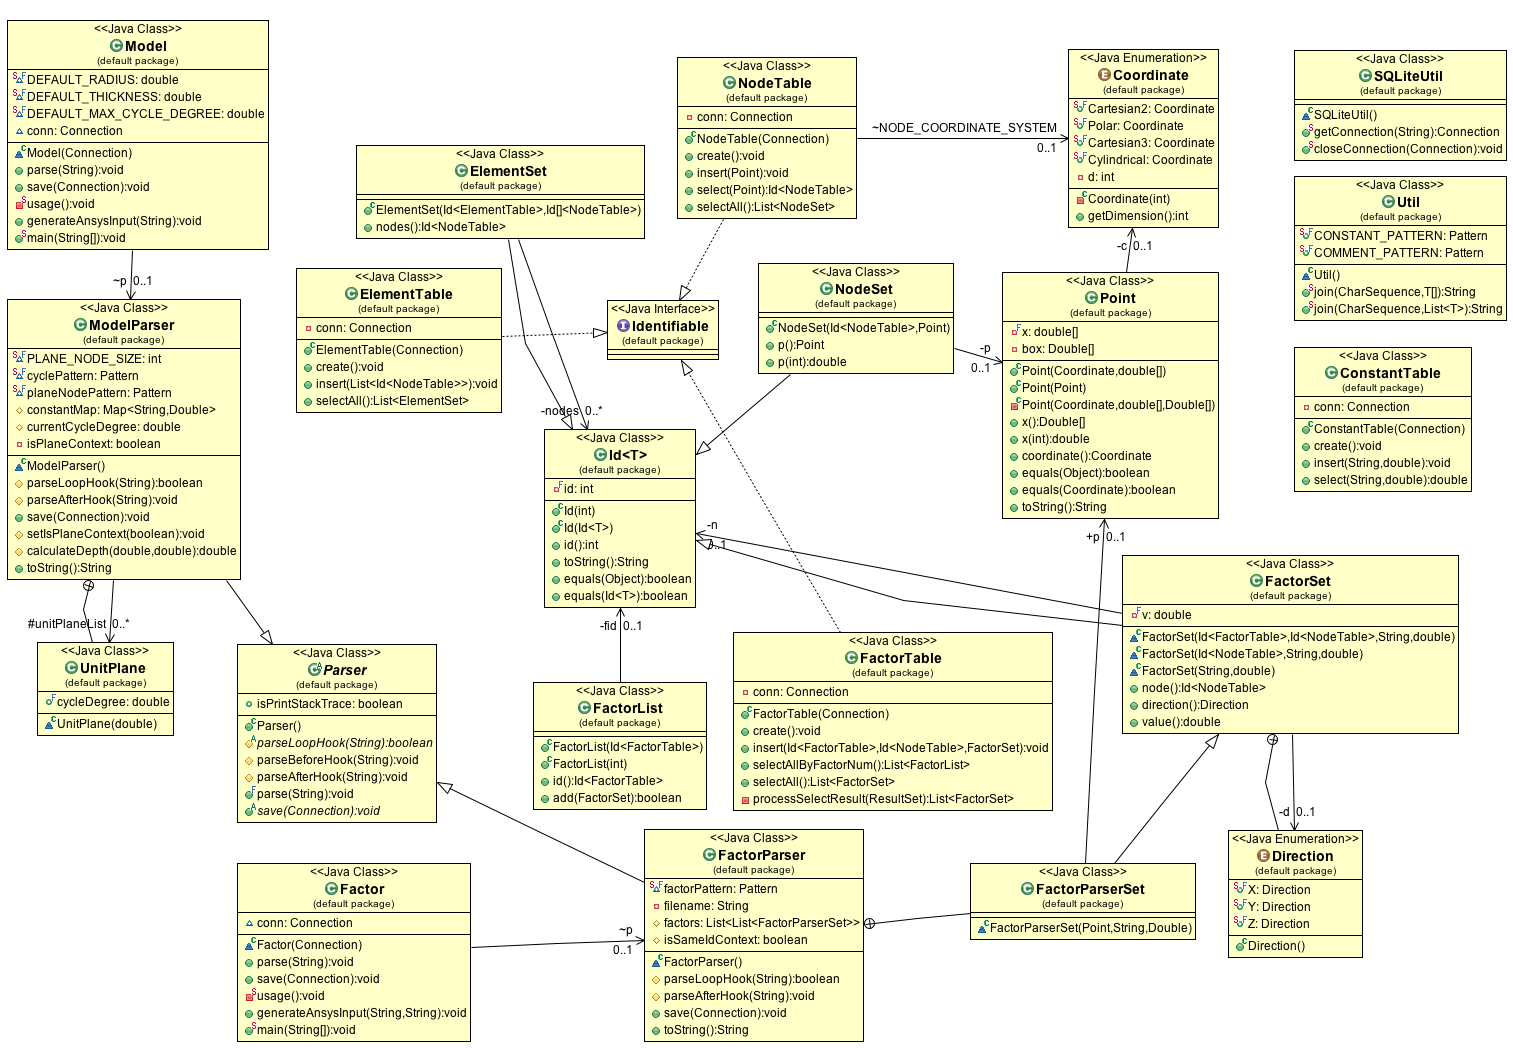
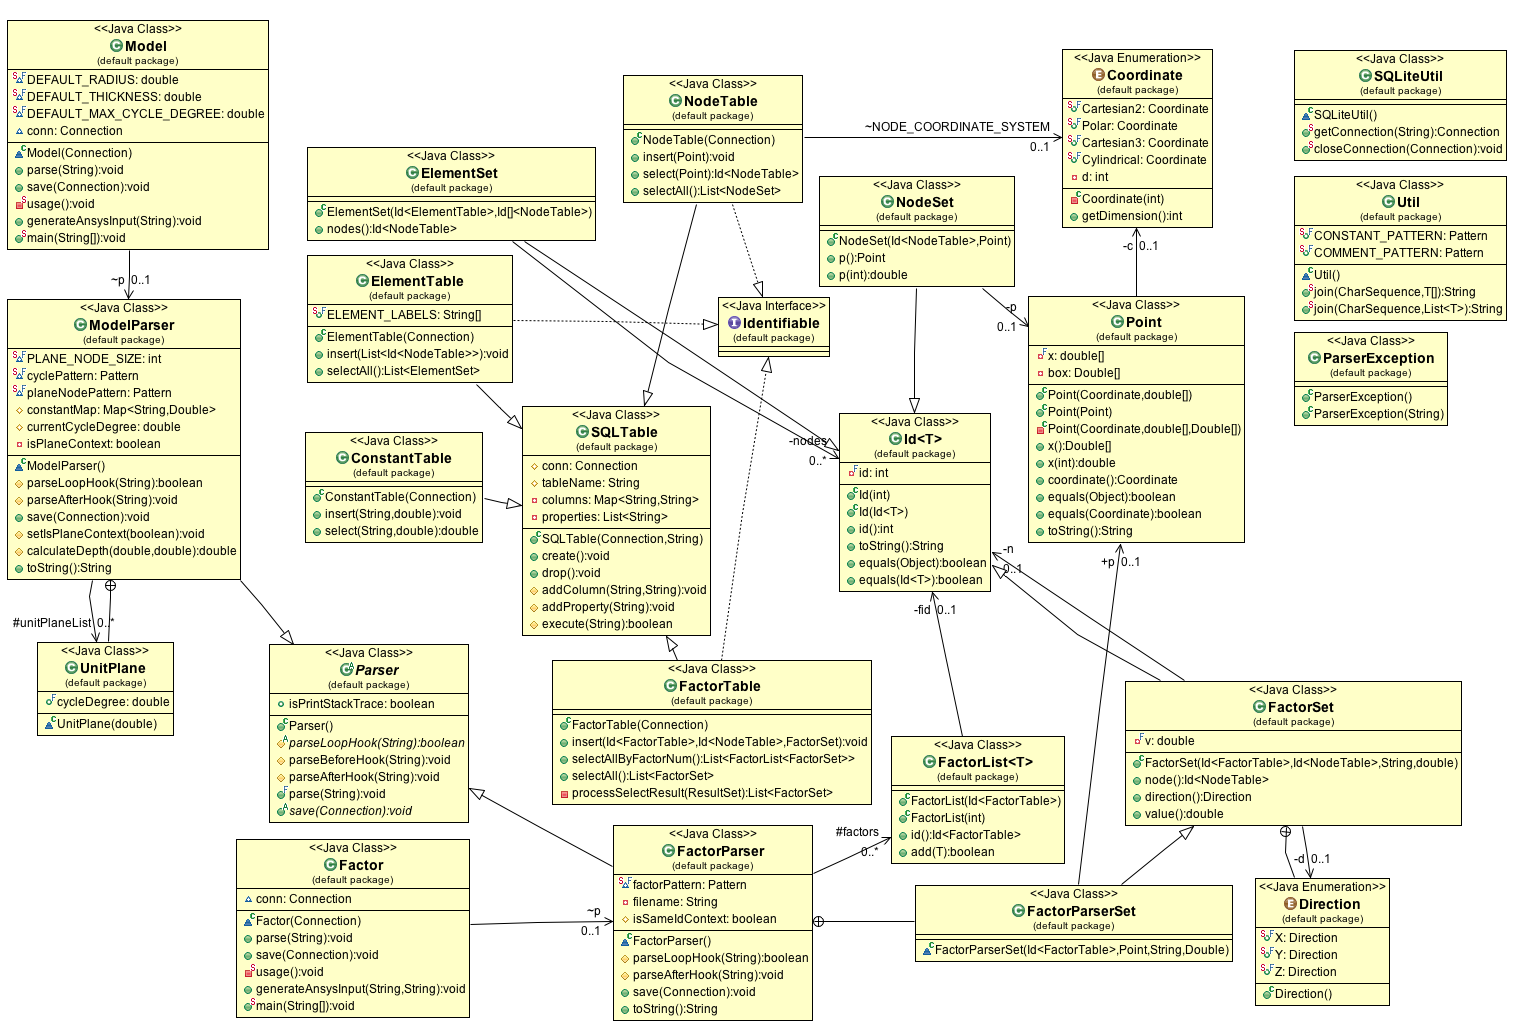
bug fix and update model.png

diff --git a/src/FactorParser.java b/src/FactorParser.java
@@ -6,8 +6,8 @@ import java.util.regex.*;
 public class FactorParser extends Parser {
 	class FactorParserSet extends FactorSet {
 		public final Point p;
-		FactorParserSet(Point p, String d, Double v) {
-			super(d, v);
+		FactorParserSet(Id<FactorTable> fid, Point p, String d, Double v) {
+			super(fid, null, d, v);
 			this.p = p;
 		}
 	}
@@ -58,7 +58,7 @@ public class FactorParser extends Parser {
 			Double value = Double.valueOf(factorMatcher.group(5));
 
 			Point p = new Point(Coordinate.Cylindrical, r, t, z);
-			factorSub.add(new FactorParserSet(p, direction, value));
+			factorSub.add(new FactorParserSet(factorSub.id(), p, direction, value));
 
 			isSameIdContext = true;
 			return true;

diff --git a/src/FactorSet.java b/src/FactorSet.java
@@ -5,19 +5,11 @@ public class FactorSet extends Id<FactorTable> {
 	private final Direction d;
 	private final double v;
 
-	FactorSet(Id<FactorTable> id, Id<NodeTable> num, String direction, double value) {
+	public FactorSet(Id<FactorTable> id, Id<NodeTable> num, String direction, double value) {
 		super(id);
 		this.n = num;
 		this.d = Direction.valueOf(direction);
 		this.v = value;
-	}
-
-	FactorSet(Id<NodeTable> num, String direction, double value) {
-		this(null, num, direction, value);
-	}
-
-	FactorSet(String direction, double value) {
-		this(null, null, direction, value);
 	}
 
 	public Id<NodeTable> node() {

diff --git a/src/SQLTable.java b/src/SQLTable.java
@@ -25,7 +25,7 @@ public class SQLTable {
 
 		StringBuilder sb = new StringBuilder("CREATE TABLE ");
 		sb.append(tableName).append(" (").append(Util.join(", ", scheme)).append(")");
-		execute(scheme.toString());
+		execute(sb.toString());
 	}
 
 	public void drop() throws SQLException {

diff --git a/src/Util.java b/src/Util.java
@@ -9,7 +9,7 @@ class Util {
 		StringBuilder sb = new StringBuilder();
 		for (T s : array)
 			sb.append(s).append(sep);
-		return sb.substring(0, sb.length() - 1);
+		return sb.substring(0, sb.length() - sep.length());
 	}
 
 	@SuppressWarnings("unchecked")

diff --git a/src/Factor.java b/src/Factor.java
@@ -9,6 +9,7 @@ class Factor {
 	Factor(Connection conn) {
 		this.conn = conn;
 		p = new FactorParser();
+		p.isPrintStackTrace = true;
 	}
 
 	public void parse(String filename) throws ParserException {
